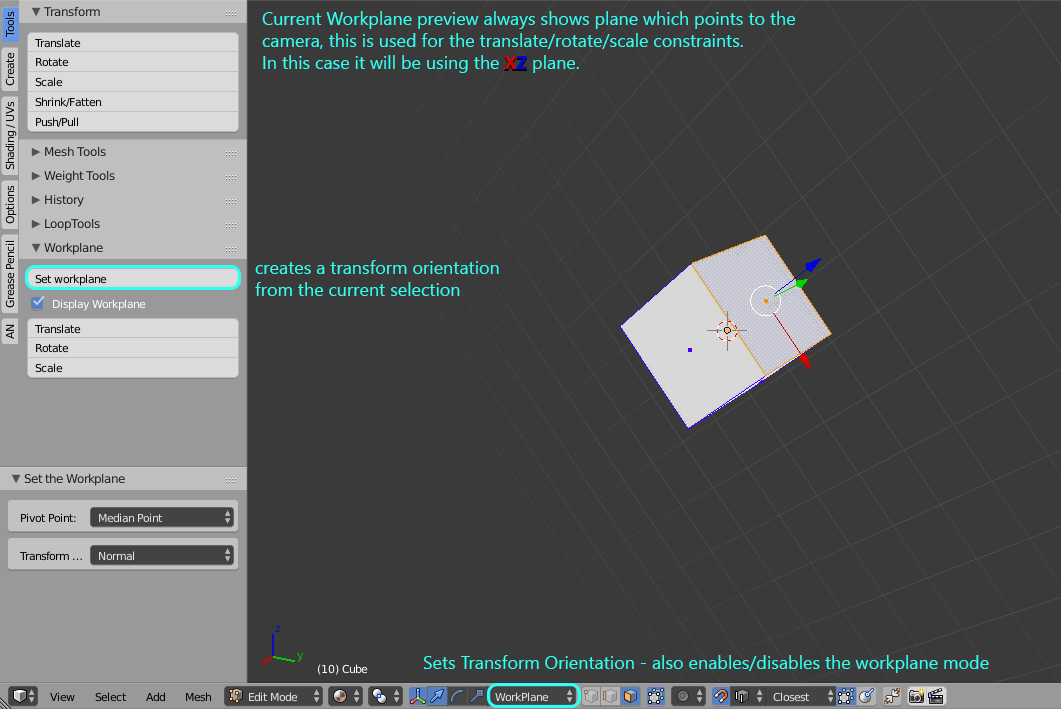
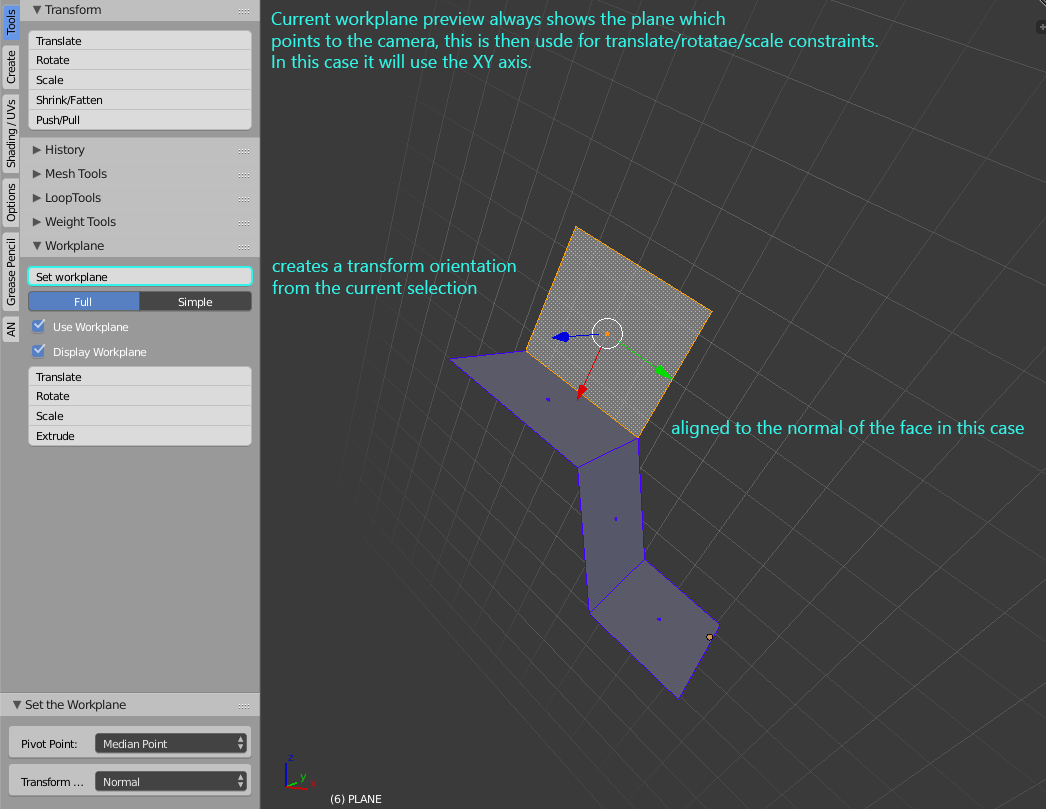
* updated docs

Changed region(s): [[0.0, 0.0, 1.0, 1.0]]

diff --git a/README.md b/README.md
@@ -7,13 +7,22 @@ The main idea is that it allows for quickly setting up a custom transform orient
 This addon does not recreate the default operations like translate/rotate/scale it merely calls the ones blender offers and sets the constraint axis and transform orientation for you.
 
 
+Release Log:
+
+0.2: 
+	- added toggle to turn off the workplane in the addon-panel 
+	- added simple draw mode where the workplane just stays where it was originall defined
+	- added extrude support
+0.1:
+	-initial release
+
 
 ## Usage
 Just select something, and hit "set workplane" - a grid will show up, its a visualisation on what plane you would work on if you would start an transform operation.
 
 ![overview](https://github.com/BenjaminSauder/Workplane/blob/master/doc/overview.png)
 
-Observe how the workplane adapts to the view
+Observe how the workplane adapts to the view - if you like to keep things less flashy hide the workplane or set the draw mode to simple
 
 ![view_adapt](https://github.com/BenjaminSauder/Workplane/blob/master/doc/view_adapt.gif)
 
@@ -22,6 +31,8 @@ Here is a mini example, set workplane to polygon, inset face then move the newly
 
 ![example](https://github.com/BenjaminSauder/Workplane/blob/master/doc/example.gif)
 
+Showing the extrude feature 
+![extrude](https://github.com/BenjaminSauder/Workplane/blob/master/doc/extrude.gif)
 
 
 
